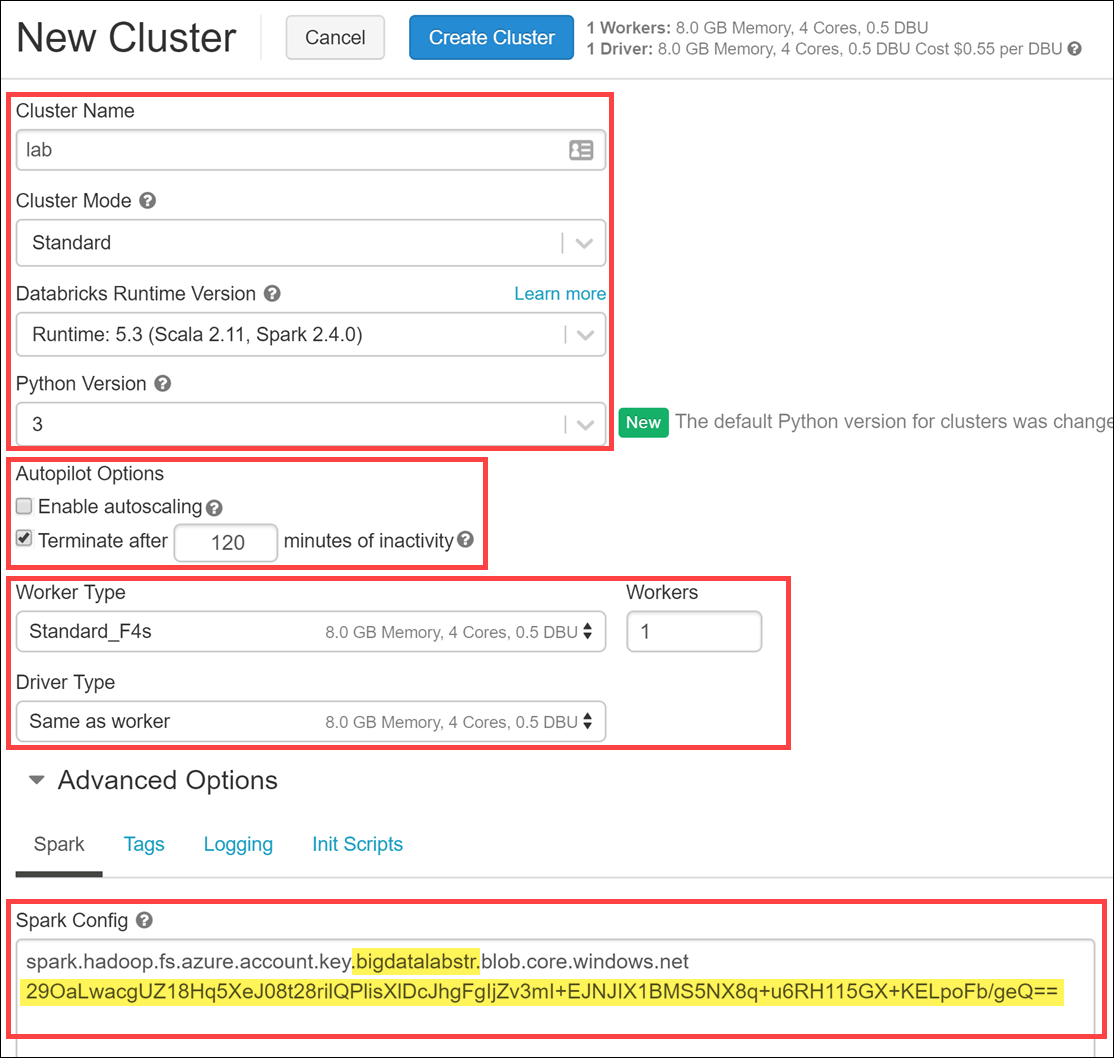
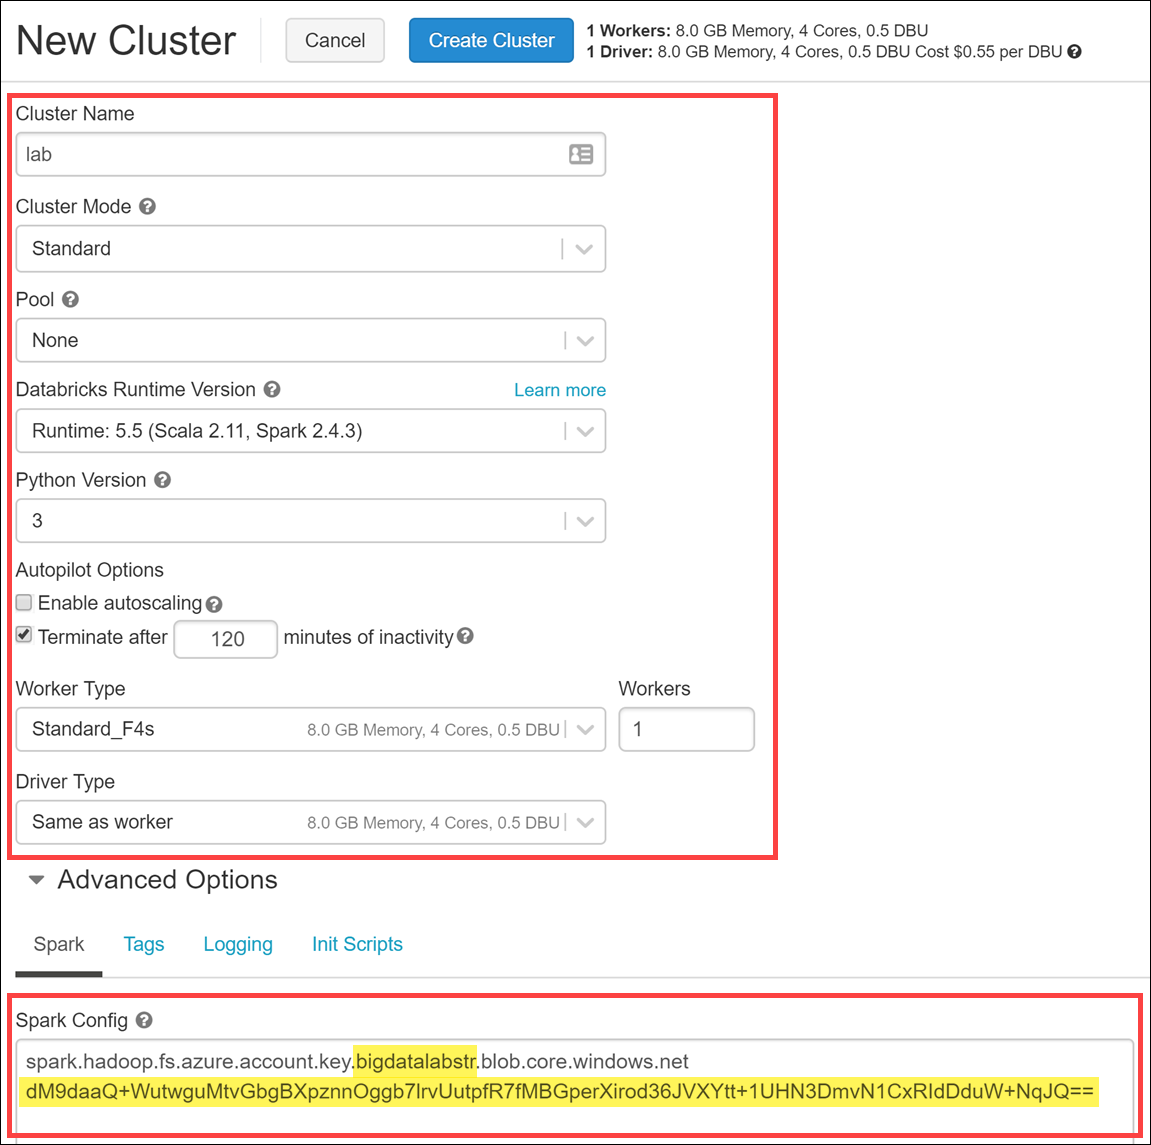
Updated cluster creation to use latest Databricks version

Changed region(s): [[0.0, 0.0, 1.0, 1.0]]

diff --git a/Hands-on lab/HOL step-by-step - Big data and visualization.md b/Hands-on lab/HOL step-by-step - Big data and visualization.md
@@ -141,7 +141,7 @@ You have provisioned an Azure Databricks workspace, and now you need to create a
 
    - **Cluster Type**: Standard
 
-   - **Databricks Runtime Version**: 5.3 (includes Apache Spark 2.4.0, Scala 2.11)
+   - **Databricks Runtime Version**: Runtime: 5.5 (Scala 2.11, Spark 2.4.3)
 
    - **Python Version**: 3
 
@@ -397,7 +397,7 @@ In this exercise, you will create an Azure Data Factory pipeline to copy data (.
    - Start date time (UTC): **03/01/2018 12:00 am**
 
    - Recurrence: Select **Month(s)**, and enter Every **1**
-   
+
    - Under the Advanced recurrence options, make sure you have a value of **0** in the textboxes for **Hours (UTC)** and **Minutes (UTC)**, otherwise it will fail later during Publishing.
 
    - End: **No End**
